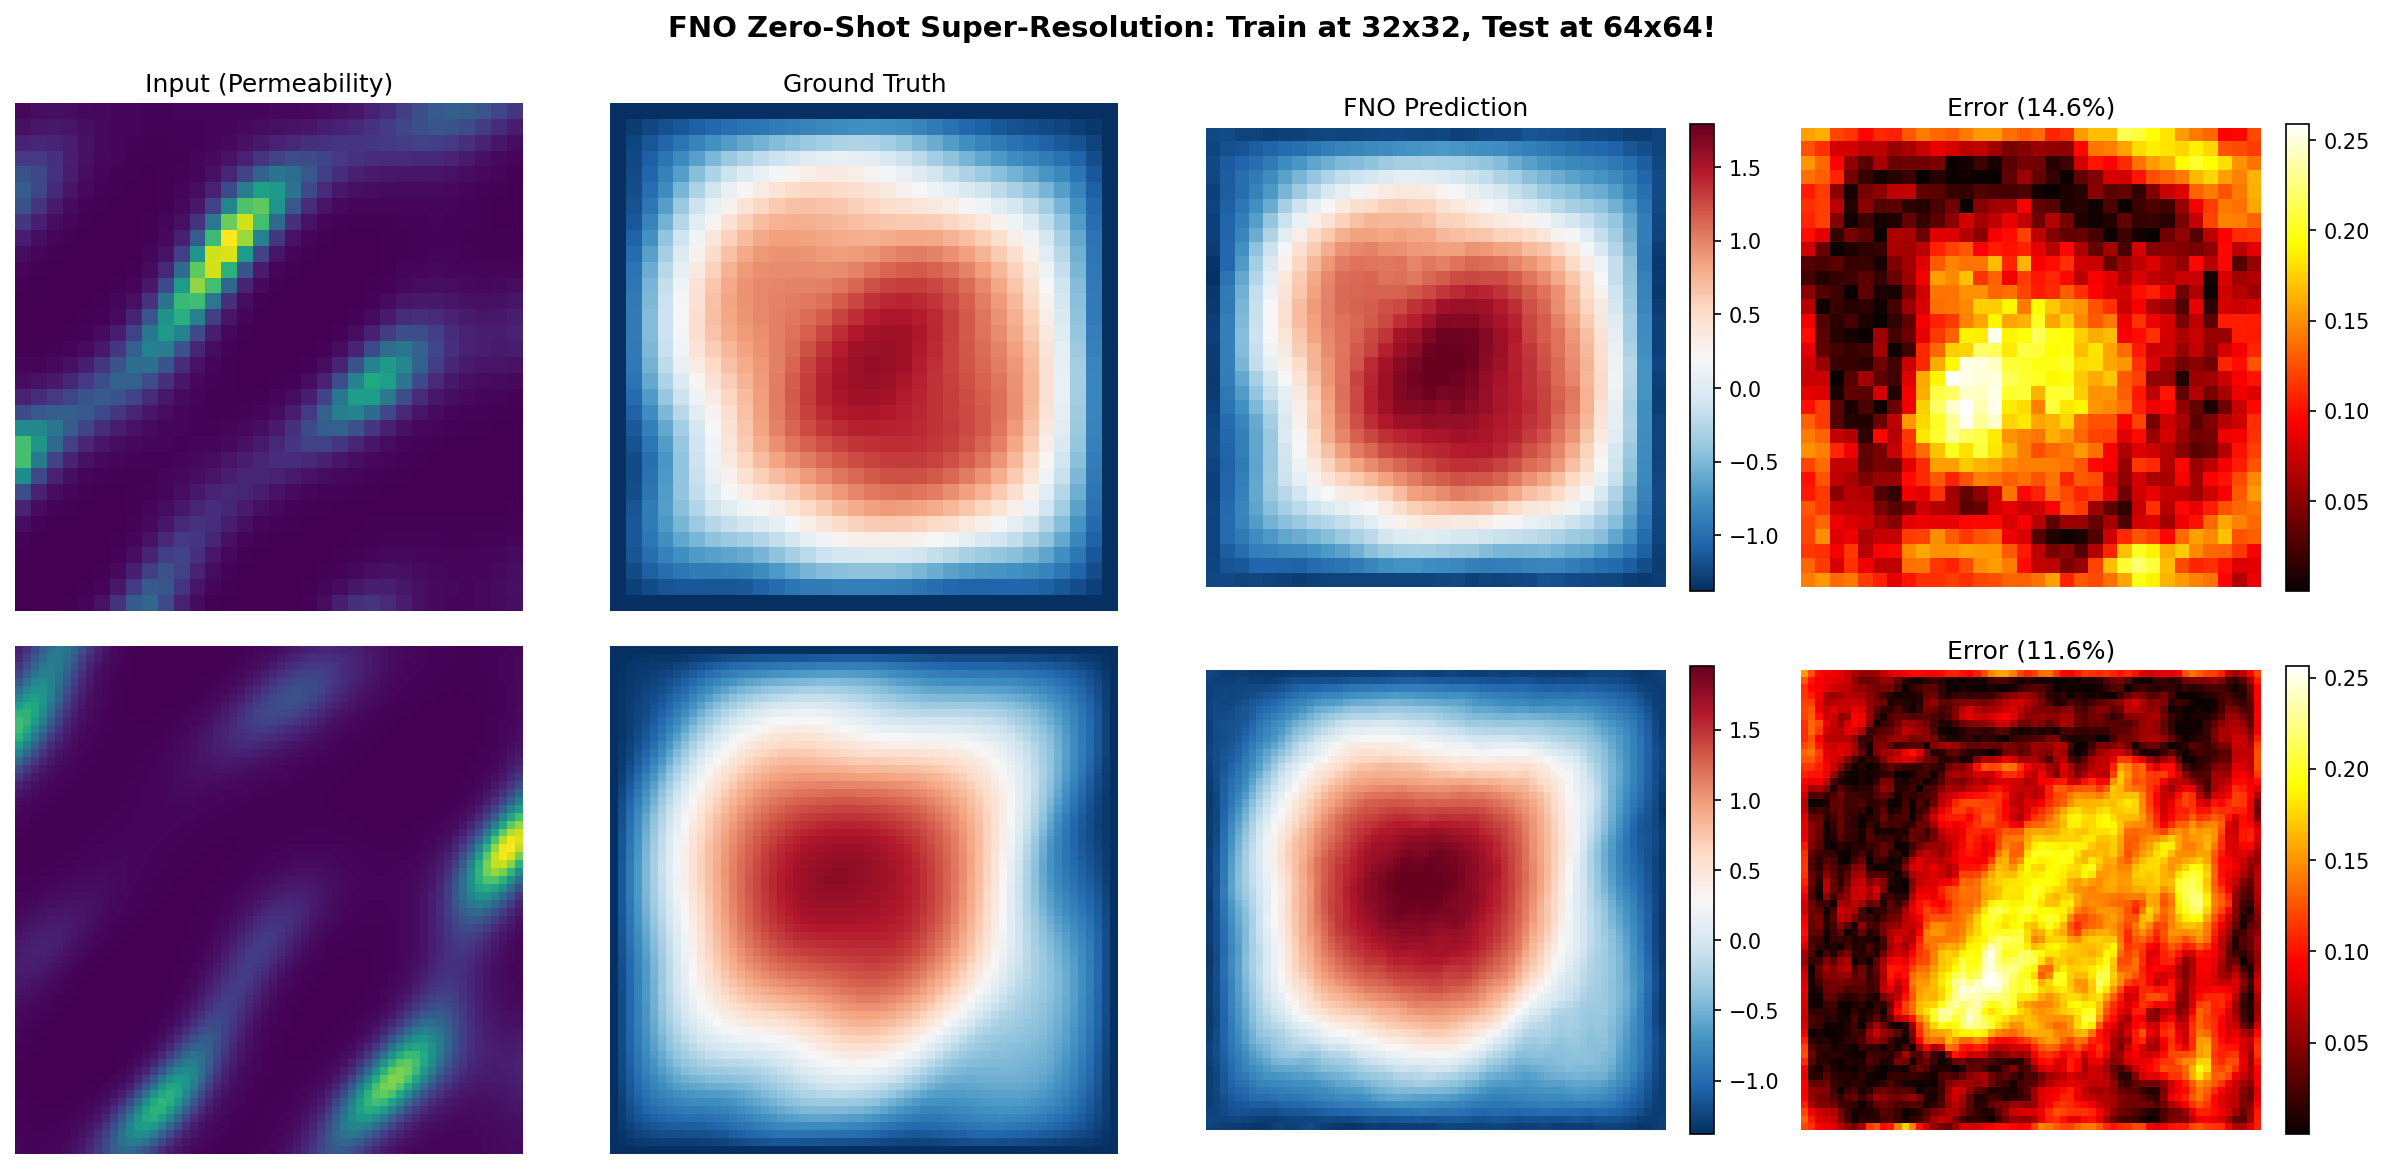
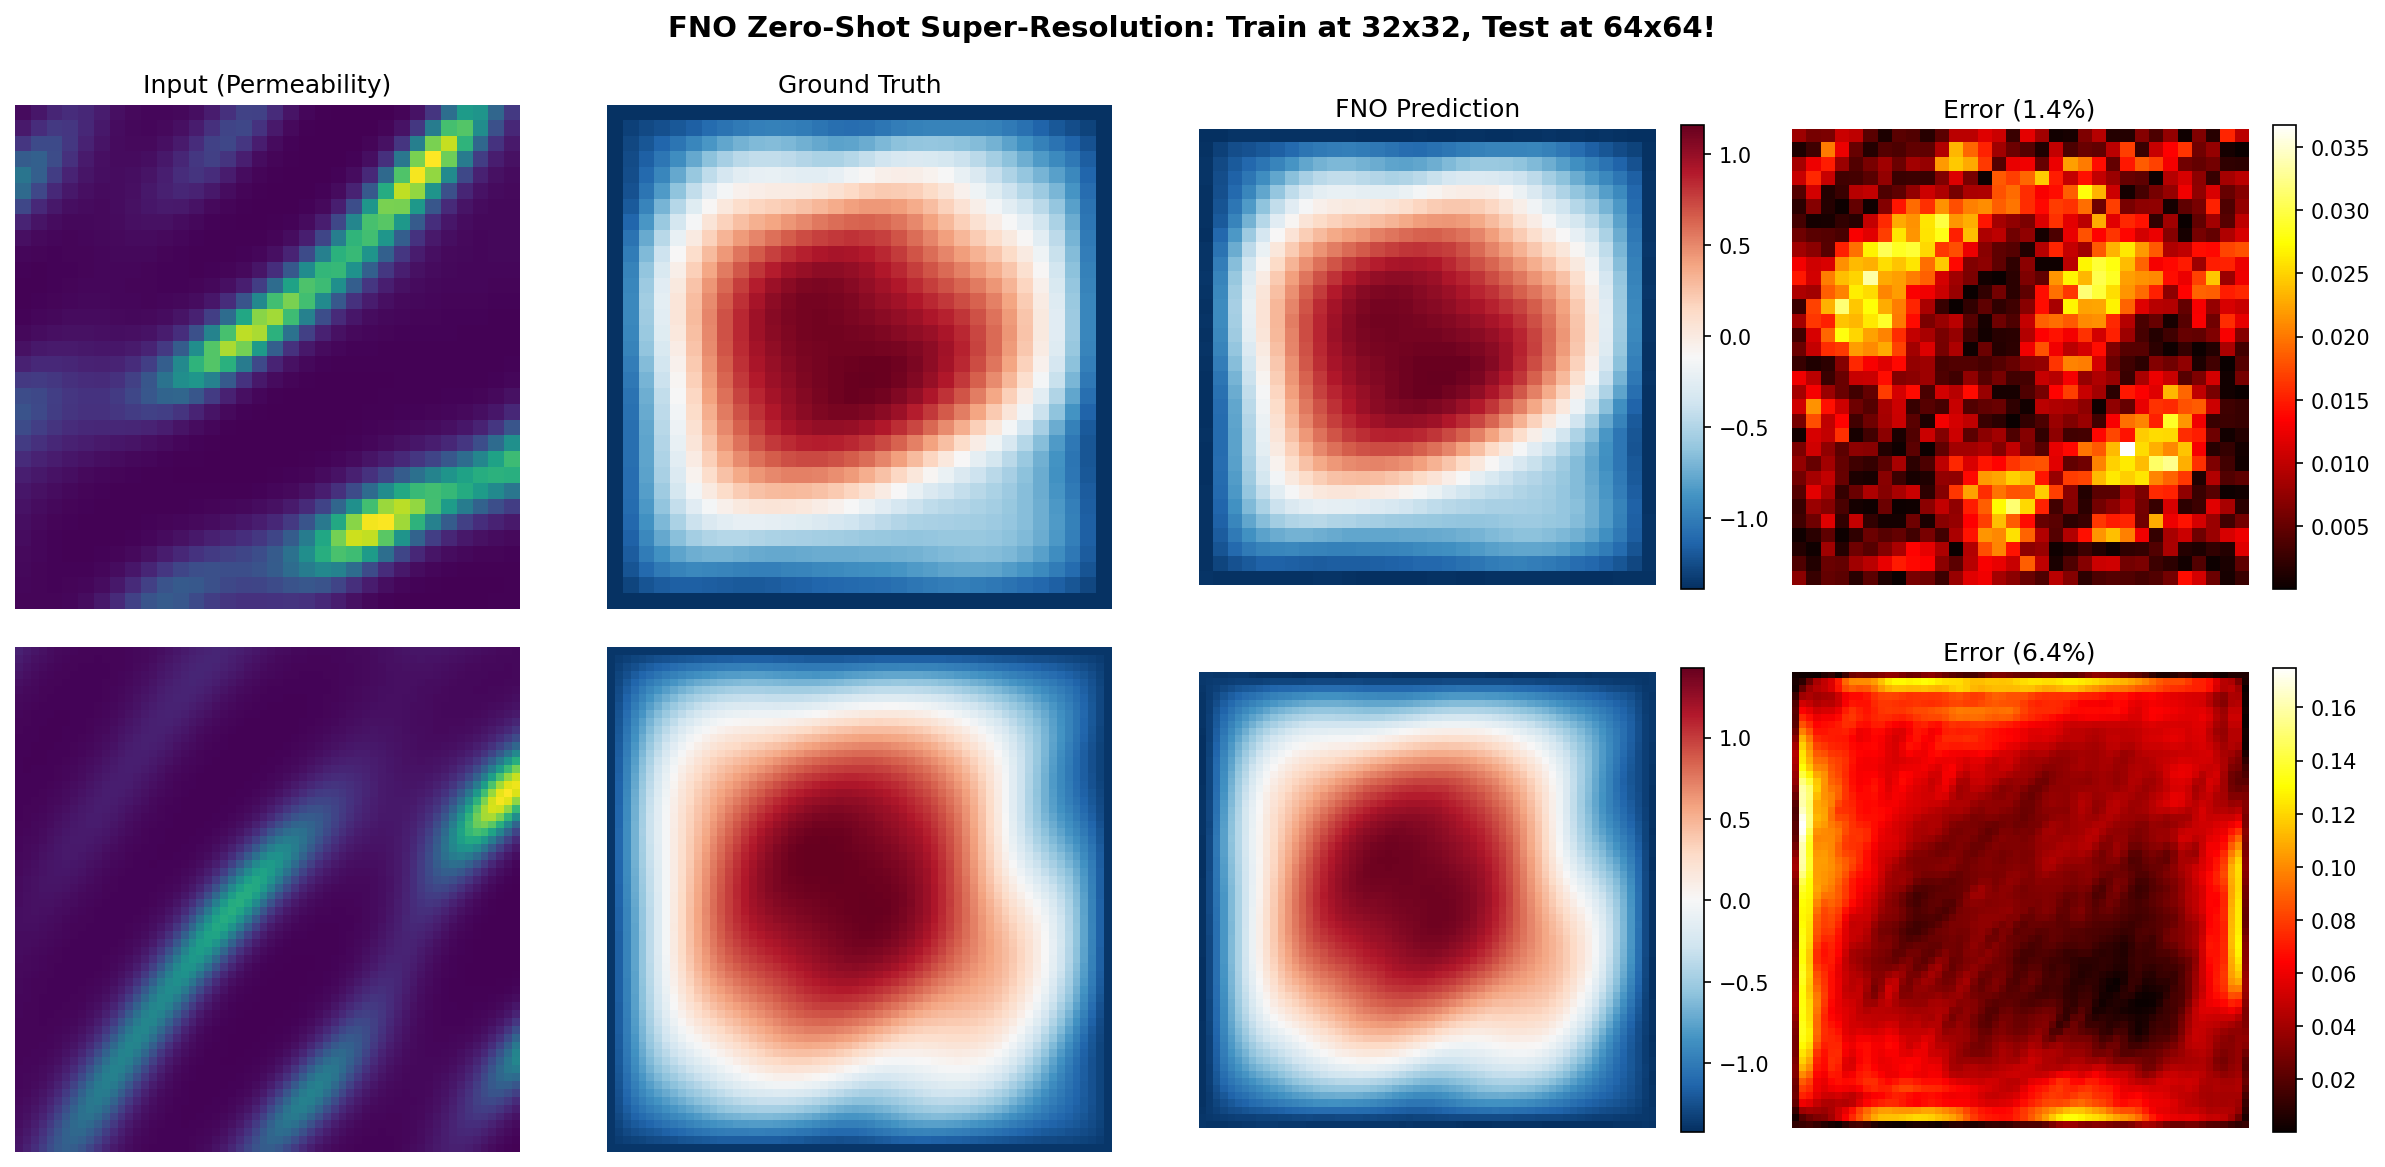
docs(examples): first-neural-operator page shows the reference-recipe run
The data shapes, the training call, the timings, the errors and the figure come from
the run of b7224f62 on a Modal L4 (1000 training samples, 1.42% relative L2 at 32x32
and 6.43% zero-shot at 64x64), replacing the output of the padded-batch data and the
constant-1e-2 recipe.

diff --git a/docs/examples/getting-started/first-neural-operator.md b/docs/examples/getting-started/first-neural-operator.md
@@ -24,7 +24,7 @@ This example demonstrates:
 
 1. **Generate** Darcy flow data with `generate_darcy()`
 2. **Create** an FNO model with `FourierNeuralOperator` and `GridEmbedding2D`
-3. **Train** with `Trainer.fit()` for 200 epochs
+3. **Train** with `Trainer.fit()` for 500 epochs by the FNO paper's recipe
 4. **Evaluate** zero-shot super-resolution capabilities
 
 ## Files
@@ -90,10 +90,10 @@ Training resolution: 32x32
 Test resolutions: 32x32, 64x64 (zero-shot)
 
 Loading Darcy flow data...
-  Training data (32x32): X=(1024, 1, 32, 32), Y=(1024, 1, 32, 32)
-  Test data (32x32): X=(200, 1, 32, 32), Y=(200, 1, 32, 32)
-  Test data (64x64): X=(200, 1, 64, 64), Y=(200, 1, 64, 64) <- UNSEEN resolution!
-  Normalization: Y_mean=0.2145, Y_std=0.1557
+  Training data (32x32): X=(1000, 1, 32, 32), Y=(1000, 1, 32, 32)
+  Test data (32x32): X=(100, 1, 32, 32), Y=(100, 1, 32, 32)
+  Test data (64x64): X=(100, 1, 64, 64), Y=(100, 1, 64, 64) <- UNSEEN resolution!
+  Normalization: Y_mean=0.2141, Y_std=0.1557
 ```
 
 ### Step 2: Create FNO with Grid Embedding
@@ -141,12 +141,33 @@ Creating FNO model with grid embedding...
 
 ### Step 3: Train
 
+The training recipe is the FNO paper's Darcy recipe (Li et al. 2021): batch 20, learning rate
+1e-3 halved every 100 epochs for 500 epochs, weight decay 1e-4, and the relative L2 loss. The
+paper's Adam applies weight decay as an L2 penalty, which opifex does not build; AdamW decays
+the weights directly, as the neuraloperator library's Darcy recipe does.
+
 ```python
 from opifex.core.training import Trainer, OptimizationConfig, TrainingConfig
+from opifex.core.training.config import LossConfig
+
+steps_per_epoch = 1000 // 20  # optax schedules count optimizer steps
+boundaries = [k * 100 * steps_per_epoch for k in range(1, 5)]
+rates = [1e-3 * 0.5**k for k in range(5)]
 
 trainer = Trainer(
     model=model,
-    config=TrainingConfig(num_epochs=200, optimization_config=OptimizationConfig(learning_rate=1e-2), batch_size=32),
+    config=TrainingConfig(
+        num_epochs=500,
+        optimization_config=OptimizationConfig(
+            optimizer="adamw",
+            learning_rate=1e-3,
+            weight_decay=1e-4,
+            schedule_type="step",
+            boundaries_and_values=(boundaries, rates),
+        ),
+        loss_config=LossConfig(loss_type="relative_l2"),
+        batch_size=20,
+    ),
     rngs=nnx.Rngs(42),
 )
 
@@ -162,7 +183,7 @@ trained_model, metrics = trainer.fit(
 Training on 32x32 resolution...
 --------------------------------------------------
 --------------------------------------------------
-Training completed in 19.3s
+Training completed in 214.7s
 ```
 
 ### Step 4: Zero-Shot Super-Resolution Test
@@ -183,8 +204,8 @@ rel_l2_64 = compute_relative_l2(predictions_64, Y_test_64)
 ======================================================================
 ZERO-SHOT SUPER-RESOLUTION TEST
 ======================================================================
-  Test at 32x32 (training resolution): 14.57% relative L2
-  Test at 64x64 (ZERO-SHOT, 2x): 11.62% relative L2
+  Test at 32x32 (training resolution): 1.42% relative L2
+  Test at 64x64 (ZERO-SHOT, 2x): 6.43% relative L2
 
 NOTE: The 64x64 test uses different samples, so high error is expected.
 True zero-shot super-resolution requires testing the same physics at
@@ -200,8 +221,8 @@ Compare predictions at both resolutions:
 
 The visualization shows:
 
-- **Row 1 (32x32)**: Training resolution with 14.6% error - model captures the pressure field
-- **Row 2 (64x64)**: Zero-shot test at 2x resolution on different samples (~12% error)
+- **Row 1 (32x32)**: Training resolution with 1.4% error - model captures the pressure field
+- **Row 2 (64x64)**: Zero-shot test at 2x resolution on different samples (6.4% error)
 
 The FNO Prediction column uses the same color scale as Ground Truth for fair comparison.
 
@@ -210,10 +231,10 @@ The FNO Prediction column uses the same color scale as Ground Truth for fair com
 | Metric                | Value      |
 |-----------------------|------------|
 | Parameters            | 2,368,001  |
-| Training Time         | 19.3s      |
-| Epochs                | 200        |
-| Test Error (32x32)    | 14.57%     |
-| Test Error (64x64)    | 11.62%     |
+| Training Time         | 214.7s (one L4 GPU) |
+| Epochs                | 500        |
+| Test Error (32x32)    | 1.42%      |
+| Test Error (64x64)    | 6.43%      |
 
 **Note**: The 64x64 test uses different physics samples than training. For true
 zero-shot super-resolution (same sample at different resolutions), see the
@@ -223,7 +244,7 @@ advanced FNO examples.
 
 ### Experiments to Try
 
-1. **More epochs**: Train for 50-100 epochs for better accuracy
+1. **Finer training grid**: Train at 64x64 and test zero-shot at 128x128
 2. **Larger model**: Increase `hidden_channels=64` or `modes=16`
 3. **H1 loss**: Add gradient loss for sharper predictions (see advanced examples)
 
